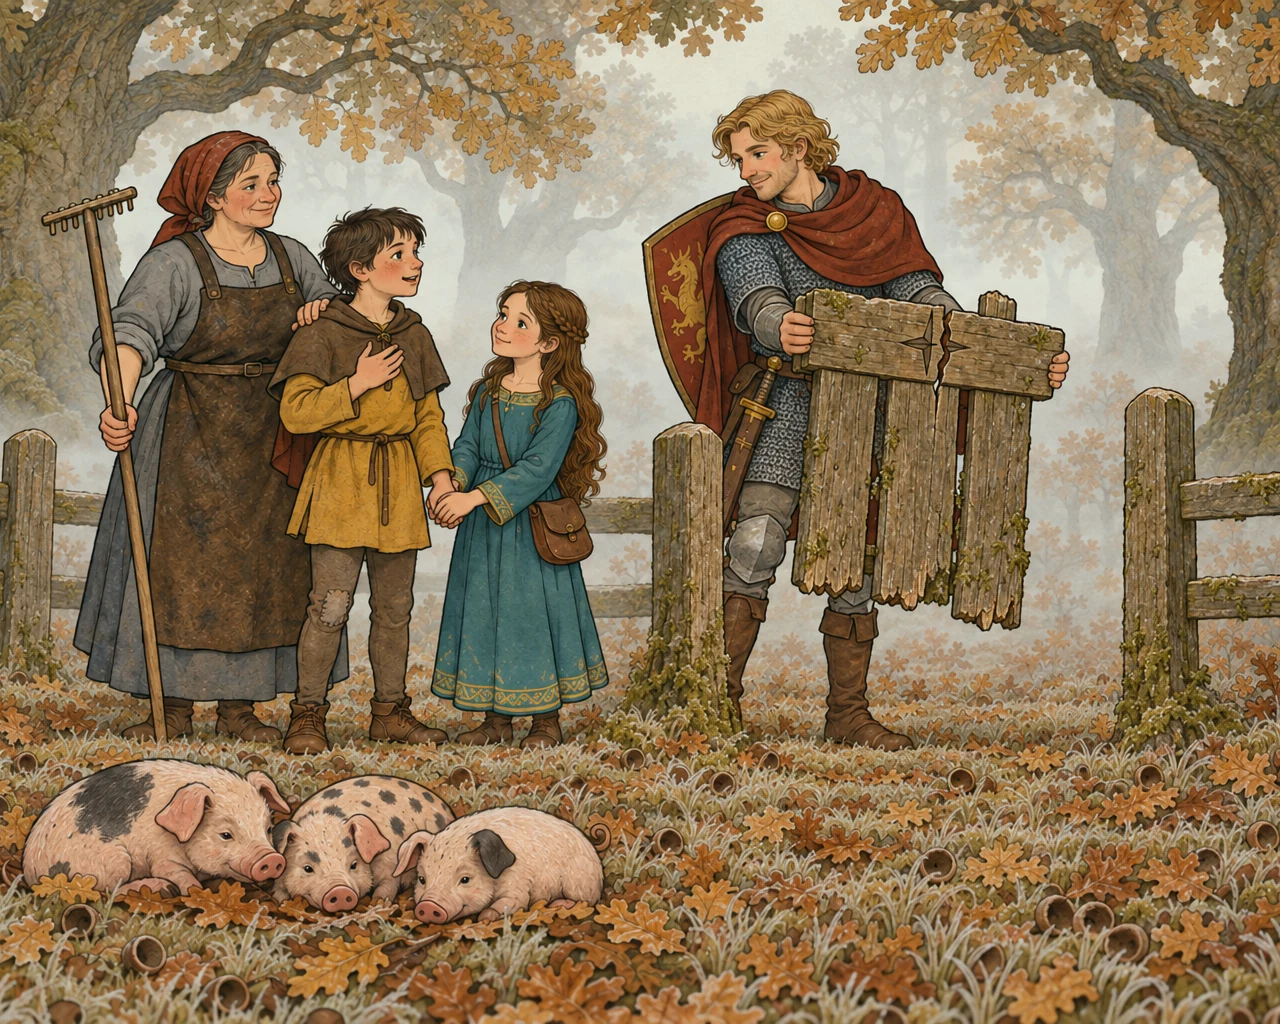
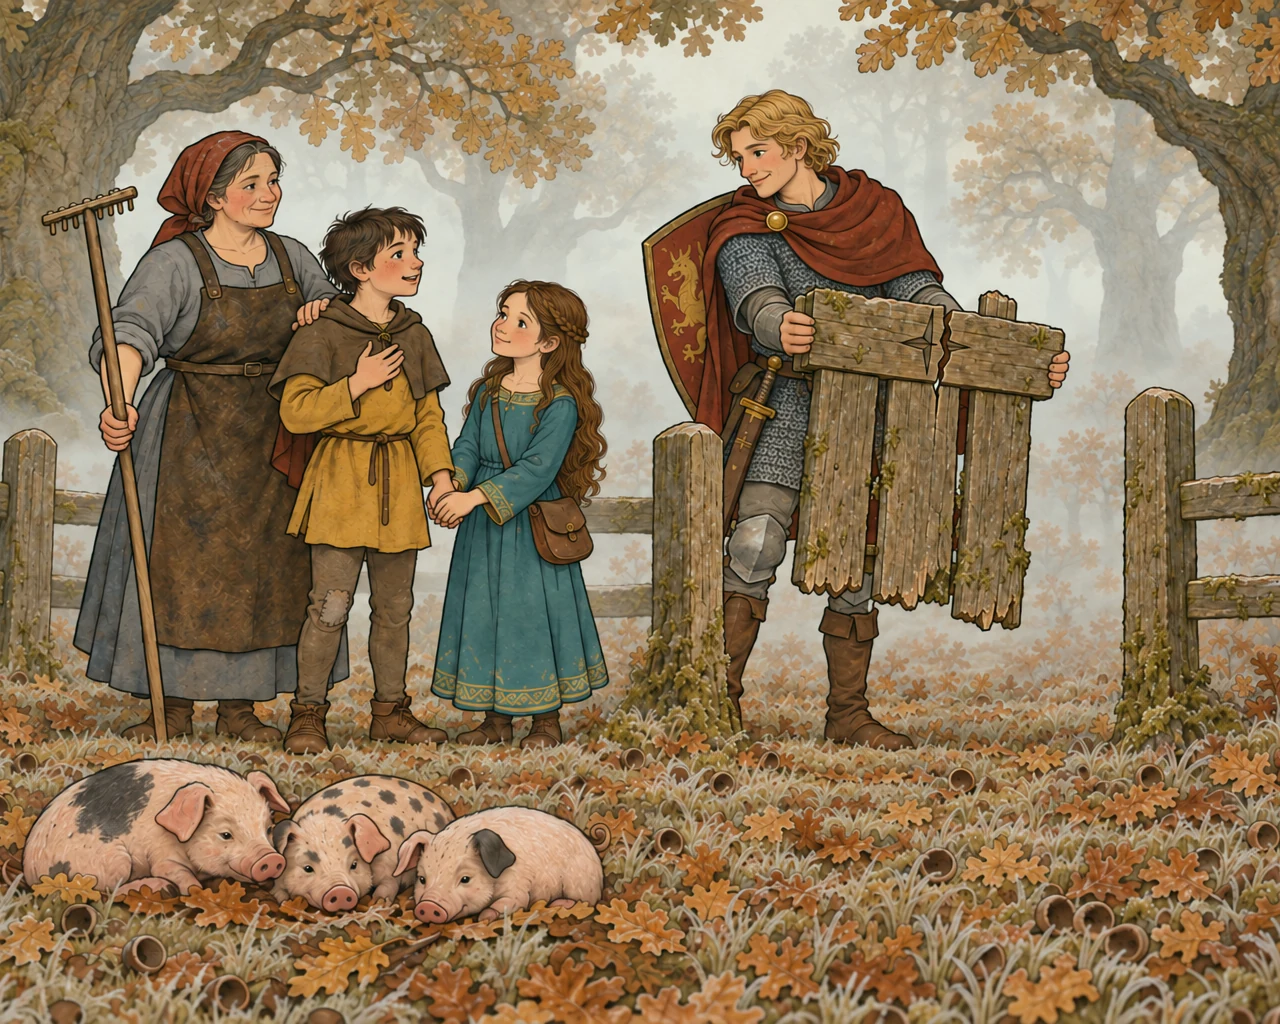
Forest third pass in the book: one gate design, fawn cut off on p8, mallet and chisel; every variant bound
p2 no dagger, p3-call-back one stick, p5-ask-kindly clean-shaven Gustaw, p7 mallet and chisel with the
old gate's star cracked (gather-forest composited from give-sack), p8 the fawn alone on the near side
of the branch, p9 the new gate only, p9 plates re-cropped at 0.75 to keep the antlers, both ending
emblems with the on-model stag. Alt texts follow the pictures.

diff --git a/src/book/pages.js b/src/book/pages.js
@@ -31,7 +31,7 @@
 // (pennant), p5-bread 0.2 (mill), p6 0.4, p7-crumbs 0.45 (Oliwia to the dragon's head), p7-warm-path 0.85
 // (cradle), p8 0.4 (pennant, lit inn), p9-name-promise 0.7 (pennant, five villagers),
 // p9-wave-goodnight 0.5. Moonhill p7-thank-bell 0.45 (Janina's pointing hand, the baker's basket).
-// Forest p7-give-sack 0.94 (Marcin carving the gate), p9-make-way 0.82 (the stag's antlers to Agata).
+// Forest p7-give-sack 0.94 (Marcin carving the gate), p7-gather-forest 0.94, p9-make-way and p9-help-fawn 0.75 (the stag's antlers to Agata).
 // Tailpieces are the shared marginal ornaments, so each tale gets plants and small beasts, not one motif.
 
 const V = "/assets/illustrations/v2";
@@ -131,28 +131,27 @@ export const moonhillSpreads = [
 ];
 
 // Tale three. The oath's star is carved on one thing only, the crossbar of the Matecznik's gate
-// (docs/DECISIONS.md). Until a choice's second picture is generated, it shows the first one's
-// (REVIEW: replace p7-gather-forest and p10-help-fawn).
+// (docs/DECISIONS.md).
 const p3FollowPiglets = img(`${FO}/p3-follow-piglets.webp`, "Świnki wbiegają przez otwartą furtkę do Matecznika, gdzie stoi Marcin; wyłamana furtka z pękniętą gwiazdką leży w trawie, a Oliwia klęczy z pustą czapeczką żołędzia na dłoni.", "The piglets trot through the open gateway into the Heartwood, where Marcin stands; the broken gate with its cracked star lies in the grass, and Oliwia kneels with an empty acorn cup in her palm.");
 const p5AskKindly = img(`${FO}/p5-ask-kindly.webp`, "Marcin z ręką na piersi mówi prawdę, Oliwia trzyma go za rękę, Agata kładzie mu dłoń na ramieniu, a Gustaw podnosi wyłamaną furtkę z pękniętą gwiazdką.", "Marcin, a hand on his chest, tells the truth; Oliwia holds his hand, Agata rests hers on his shoulder, and Gustaw lifts the broken gate with its cracked star.");
-const p7GiveSack = img(`${FO}/p7-give-sack.webp`, "Oliwia i Agata sypią żołędzie przez płot, Koniczynka niesie worek Marcina, Gustaw trzyma nową furtkę, a Marcin wycina dłutkiem gwiazdkę na jej poprzeczce.", "Oliwia and Agata pour acorns over the fence, Koniczynka carries Marcin's sack, Gustaw holds the new gate, and Marcin carves a star on its crossbar with a chisel.");
+const p7GiveSack = img(`${FO}/p7-give-sack.webp`, "Oliwia i Agata sypią żołędzie przez płot, Koniczynka niesie worek Marcina, Gustaw trzyma nową furtkę, a Marcin wycina na jej poprzeczce gwiazdkę dłutkiem i drewnianym młotkiem; obok stoi stara furtka z pękniętą gwiazdką.", "Oliwia and Agata pour acorns over the fence, Koniczynka carries Marcin's sack, Gustaw holds the new gate, and Marcin carves a star on its crossbar with a chisel and a wooden mallet; the old gate with its cracked star leans beside him.");
 const p9MakeWay = img(`${FO}/p9-make-way.webp`, "Jeleń z gwiazdką idzie ścieżką, mgła rozstępuje się przed nim, a za nim idą Oliwia i Marcin ręka w rękę, Gustaw z Koniczynką i Agata; łanie skubią żołędzie w Mateczniku za nową furtką.", "The star stag walks down the path as the mist parts before it; behind it come Oliwia and Marcin hand in hand, Gustaw with Koniczynka, and Agata; the hinds graze on acorns in the Heartwood beyond the new gate.");
 const p10MakeWay = img(`${FO}/p10-make-way.webp`, "Złoty medalion: w Mateczniku w południe łania z jelonkiem skubią żołędzie, jeleń z gwiazdką stoi obok, a na poprzeczce nowej furtki widać wyciętą gwiazdkę.", "A gold medallion: in the Heartwood at noon the doe and her fawn graze on acorns, the star stag stands beside them, and the new gate's crossbar carries a carved star.");
 
 export const forestSpreads = [
   { page: 0, layout: "title", images: { default: img(`${FO}/title.webp`, "Złoty medalion: jeleń ze złotą gwiazdką wychodzi z mgły między dębami, w ramce z liści dębu i żołędzi.", "A gold medallion: the stag with a gold star steps out of the mist between oaks, in a border of oak leaves and acorns.") } },
   { page: 1, tailpiece: `${OR}/hedgehog-clover.webp`, images: { default: img(`${FO}/p1.webp`, "Świt we mgle na polanie węglarki: Agata, Gustaw z Koniczynką i Oliwia patrzą na trzy świnki, które wybiegają z mgły; w mchu leżą puste czapeczki żołędzi i ślady racic.", "Dawn in the mist at the charcoal clearing: Agata, Gustaw with Koniczynka and Oliwia watch three piglets trot out of the mist; empty acorn cups and little hoofprints lie in the moss.") } },
-  { page: 2, tailpiece: `${OR}/oak-wren.webp`, images: { default: img(`${FO}/p2.webp`, "Świnki nastawiają uszy ku wołaniu z mgły, Oliwia kuca obok nich, a Agata nasłuchuje z dłonią przy uchu.", "The piglets prick their ears toward a call in the mist; Oliwia crouches beside them and Agata listens with a hand cupped to her ear.") } },
+  { page: 2, tailpiece: `${OR}/oak-wren.webp`, images: { default: img(`${FO}/p2.webp`, "Świnki nastawiają uszy ku wołaniu z mgły, Oliwia kuca obok nich, a Agata z grabiami w drugiej ręce nasłuchuje z dłonią przy uchu.", "The piglets prick their ears toward a call in the mist; Oliwia crouches beside them and Agata, her rake in her other hand, listens with a hand cupped to her ear.") } },
   { page: 3, tailpiece: `${OR}/strawberry-snail.webp`, variantFrom: 2, images: { "follow-piglets": p3FollowPiglets, "call-back": img(`${FO}/p3-call-back.webp`, "Marcin stoi ze spuszczoną głową przy wyłamanej furtce Matecznika, świnki kręcą się przy nim; Oliwia klęczy z pustą czapeczką żołędzia na dłoni.", "Marcin stands with his head bowed by the Heartwood's broken gate, the piglets around him; Oliwia kneels with an empty acorn cup in her palm.") } },
   { page: 4, tailpiece: `${OR}/columbine-hare.webp`, images: { default: img(`${FO}/p4.webp`, "Zawstydzony Marcin przy wyłamanej furtce; Oliwia bierze go za rękę, a świnki chowają się za jego nogami.", "Ashamed, Marcin stands by the broken gate; Oliwia takes his hand while the piglets hide behind his legs.") } },
   { page: 5, tailpiece: `${OR}/owl-hazel.webp`, variantFrom: 4, images: { "ask-kindly": p5AskKindly, "show-tracks": img(`${FO}/p5-show-tracks.webp`, "Oliwia klęczy i pokazuje ślady raciczek w ziemi; Marcin z ręką na piersi mówi prawdę, Agata trzyma dłoń na jego ramieniu, a Gustaw podnosi wyłamaną furtkę.", "Oliwia kneels and points to the little hoofprints in the earth; Marcin, a hand on his chest, tells the truth, Agata's hand on his shoulder, and Gustaw lifts the broken gate.") } },
   { page: 6, tailpiece: `${OR}/fleuron.webp`, images: { default: img(`${FO}/p6.webp`, "Agata opiera dłoń o wyłamaną furtkę z pękniętą gwiazdką; Marcin, Oliwia i Gustaw patrzą na świnki, które w szronie znajdują tylko puste czapeczki.", "Agata rests her hand on the broken gate with its cracked star; Marcin, Oliwia and Gustaw watch the piglets find only empty cups in the frost.") } },
-  { page: 7, tailpiece: `${OR}/oak-wren.webp`, variantFrom: 6, images: { "give-sack": p7GiveSack, "gather-forest": p7GiveSack } },
-  { page: 8, tailpiece: `${OR}/strawberry-snail.webp`, images: { default: img(`${FO}/p8.webp`, "Z mgły wychodzi jeleń ze złotą gwiazdką i łania; jelonek utknął za złamanym konarem, a wszyscy patrzą z zachwytem przy nowej furtce.", "Out of the mist step the stag with a gold star and the doe; the fawn is stuck behind a fallen branch, and everyone watches in wonder by the new gate.") } },
+  { page: 7, tailpiece: `${OR}/oak-wren.webp`, variantFrom: 6, images: { "give-sack": p7GiveSack, "gather-forest": img(`${FO}/p7-gather-forest.webp`, "Oliwia sypie przez płot żołędzie z torby, a Agata z fartucha; Gustaw trzyma nową furtkę, a Marcin wycina na jej poprzeczce gwiazdkę dłutkiem i drewnianym młotkiem; obok stoi stara furtka z pękniętą gwiazdką.", "Oliwia pours acorns over the fence from her satchel and Agata from her apron; Gustaw holds the new gate while Marcin carves a star on its crossbar with a chisel and a wooden mallet; the old gate with its cracked star leans beside him.") } },
+  { page: 8, tailpiece: `${OR}/strawberry-snail.webp`, images: { default: img(`${FO}/p8.webp`, "Z mgły wychodzi jeleń ze złotą gwiazdką i łania; złamany konar odciął od nich jelonka, który stoi sam po tej stronie, a wszyscy patrzą z zachwytem przy nowej furtce; Agata trzyma grabie.", "Out of the mist step the stag with a gold star and the doe; a fallen branch has cut the fawn off from them and it stands alone on this side, while everyone watches in wonder by the new gate, Agata holding her rake.") } },
   { page: 9, tailpiece: `${OR}/hedgehog-clover.webp`, variantFrom: 8, images: { "make-way": p9MakeWay, "help-fawn": img(`${FO}/p9-help-fawn.webp`, "Jeleń z gwiazdką prowadzi ścieżką łanię i jelonka, za nimi idą Oliwia i Marcin ręka w rękę, Gustaw z Koniczynką i Agata; odciągnięty konar leży z boku ścieżki, a w oddali stoi nowa furtka Matecznika.", "The star stag leads the doe and the fawn down the path, followed by Oliwia and Marcin hand in hand, Gustaw with Koniczynka, and Agata; the pulled-away branch lies at the side of the trail, and the Heartwood's new gate stands in the distance.") } },
   {
     page: 10, layout: "vignette", variantFrom: 8, secondary: img(`${OR}/fleuron.webp`, "Ozdobnik.", "An ornament."),
-    images: { "make-way": p10MakeWay, "help-fawn": p10MakeWay },
+    images: { "make-way": p10MakeWay, "help-fawn": img(`${FO}/p10-help-fawn.webp`, "Złoty medalion: w południe pod dębem jelonek tuli się do łani, za nimi stoi jeleń z gwiazdką, a odciągnięty konar leży z boku na mchu.", "A gold medallion: at noon under an oak the fawn presses close to the doe, the star stag stands behind them, and the pulled-away branch lies aside on the moss.") },
   },
 ];
 

diff --git a/prototypes/prompts/_build_forest.py b/prototypes/prompts/_build_forest.py
@@ -211,9 +211,11 @@ TITLE = ("the frontispiece emblem that opens the tale \"The Forest Oath\": insid
 ENDINGS = {
     "make-way": ("the closing emblem (the colophon) of the tale \"The Forest Oath\", the companion of its frontispiece: inside the roundel, the Heartwood at noon — a golden old oak, beneath it a short stretch of the low plain split-oak fence with a small new gate standing open (three upright pale planks held by one broad crossbar across their tops, square-topped, no pickets, no brace), a four-pointed star carved in the centre of that crossbar; behind the fence the doe and her small fawn graze on acorns in the moss, and the star stag stands beside them with its head raised, calm: a red-brown stag with a darker brown neck mane and pale cream antlers, a crisp small gold four-pointed star on its brow; a small flat gold sun disc in the sky, without rays.",
                  "one stag with one small gold star; one doe; one fawn; one gate with one carved star; no star on any post; one sun disc."),
-    "help-fawn": ("the closing emblem (the colophon) of the tale \"The Forest Oath\", the companion of its frontispiece: inside the roundel, under golden oaks at noon, the small fawn pressed close against its mother's side, safe, her head bent to it; the star stag stands behind them, calm, the small gold star on its brow; the storm-broken oak branch lies aside along the edge of the moss; a small flat gold sun disc in the sky, without rays.",
+    "help-fawn": ("the closing emblem (the colophon) of the tale \"The Forest Oath\", the companion of its frontispiece: inside the roundel, under golden oaks at noon, the small fawn pressed close against its mother's side, safe, her head bent to it; the star stag stands behind them, calm: a red-brown stag with a darker brown neck mane and pale cream antlers, a crisp small gold four-pointed star on its brow; the storm-broken oak branch — one long grey-brown bough with forked twigs and a few brown leaves, not a stump — lies flat along the edge of the moss, pulled aside; a small flat gold sun disc in the sky, without rays.",
                   "one stag with one small gold star; one doe; one fawn; one branch lying aside; one sun disc."),
 }
+# help-fawn (a): the stag had dark antlers and no mane, the branch read as a stump
+EMBLEM_REV = {"help-fawn": "fo-p10-help-fawnb"}
 DAY_GROUND = "inside it a clear, pale day-blue ground (#a9c3cf) with a few soft cream cloud shapes — the morning has come (the frontispiece of this tale is the same roundel on a deep blue pre-dawn ground)."
 
 
@@ -401,6 +403,11 @@ for pid, old, new, extra in [("fo-p9-make-way", "fo-p9-make-waye", "fo-p9-make-w
           neg=NO_OLD_GATE)
 
 
+# fo-p7-gather-forestc is not a generation: gather-forestb kept Marcin's old knife and a whole star on
+# the old gate (its prompt predates this pass), so the right side (x >= 990, a 60 px soft seam inside
+# Gustaw's body) is taken from fo-p7-give-sackf, which shares the composition pixel for pixel.
+
+
 if __name__ == "__main__":
     sheets()
     print("set-forest-oath", "m-sheet-forest", "sheets")
@@ -415,5 +422,6 @@ if __name__ == "__main__":
     emblem_prompt("orn-title-forest", TITLE[0], TITLE[1], "one stag with one small gold star; one oak twig with two acorns.")
     print("orn-title-forest", "emblem")
     for variant, (motif, counts) in ENDINGS.items():
-        emblem_prompt(f"fo-p10-{variant}", motif, DAY_GROUND, counts, extra_refs=", orn-title-forest-clean.png")
-        print(f"fo-p10-{variant}", "emblem")
+        pid = EMBLEM_REV.get(variant, f"fo-p10-{variant}")
+        emblem_prompt(pid, motif, DAY_GROUND, counts, extra_refs=", orn-title-forest-clean.png")
+        print(pid, "emblem")
